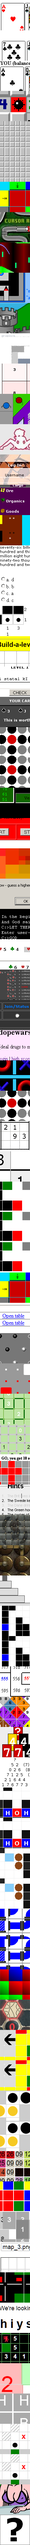
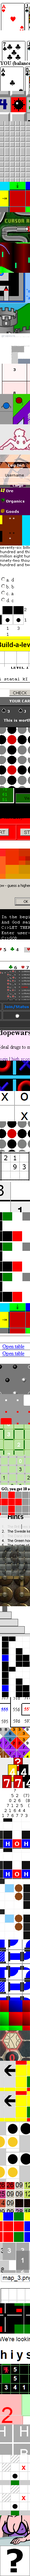
squarescape bugfix, finished tic tac toe 2

diff --git a/tictactoe.js b/tictactoe.js
@@ -1,4 +1,10 @@
 class TicTacToe extends GridGame {
+	constructor( grid ) {
+		super(grid);
+
+		this.m_arrWinLines = [];
+	}
+
 	createGame() {
 	}
 
@@ -24,7 +30,7 @@ class TicTacToe extends GridGame {
 		this.reset();
 
 		this.setTurn(Math.random() > 0.5);
-		this.m_objGrid.getElements('[data-chosen]').data('chosen', null);
+		this.m_objGrid.getElements('td').data('chosen', null).removeClass('winner');
 	}
 
 	choose( cell ) {
@@ -35,12 +41,57 @@ class TicTacToe extends GridGame {
 		this.winOrLose();
 	}
 
+	haveWon() {
+		const lines = this.getWinLines();
+		const winner = lines.find((coords) => {
+			const chosens = coords.map((coord) => {
+				return this.getCell(coord).data('chosen');
+			}).join('');
+			return chosens === '111' || chosens === '000';
+		});
+		if ( winner ) {
+			new Elements(winner.map((coord) => this.getCell(coord))).addClass('winner');
+			return true;
+		}
+	}
+
+	getWinLines() {
+		if ( this.m_arrWinLines.length ) {
+			return this.m_arrWinLines;
+		}
+
+		const dirs = [
+			new Coords2D(0, 1),
+			new Coords2D(1, 0),
+			new Coords2D(1, 1),
+			new Coords2D(-1, 1),
+		];
+		const starts = this.m_objGrid.getElements([
+			'#' + this.m_objGrid.idOrRnd() + ' > tr:first-child > td',
+			'#' + this.m_objGrid.idOrRnd() + ' > tr > td:first-child'
+		].join(', '));
+
+		const lines = [].concat.apply([], starts.map((start) => {
+			return dirs.map((dir) => {
+				var current = start;
+				const line = [current];
+				while ( current = this.getCell(this.getCoord(current).add(dir)) ) {
+					line.push(current);
+				}
+				return line;
+			}).filter((line) => line.length == 3);
+		}));
+		const coords = lines.map((cells) => cells.map((cell) => this.getCoord(cell)));
+		return coords;
+	}
+
 	listenControls() {
 		this.listenCellClick();
 	}
 
 	handleCellClick( cell ) {
-		console.log(cell);
+		if ( this.m_bGameOver ) return this.startGame();
+
 		if ( !cell.data('chosen') ) {
 			this.choose(cell);
 		}

diff --git a/squarescape.js b/squarescape.js
@@ -41,8 +41,10 @@ class Squarescape extends LeveledGridGame {
 
 	move( offset ) {
 		const path = this.findPath(this.getPlayer(), offset);
-		this.drawPath(path);
-		this.setMoves(this.m_iMoves + 1);
+		if ( path.length > 0 ) {
+			this.drawPath(path);
+			this.setMoves(this.m_iMoves + 1);
+		}
 	}
 
 	findPath( from, offset ) {

diff --git a/134b.php b/134b.php
@@ -17,12 +17,28 @@ table {
 	border-collapse: collapse;
 }
 td {
-	width: 30px;
-	height: 30px;
-	border: solid 1px #aaa;
+	width: 50px;
+	height: 50px;
+	border: solid 2px #aaa;
 	padding: 0;
-	line-height: 30px;
+	line-height: 50px;
 	text-align: center;
+	font-size: 40px;
+}
+tr:first-child > td {
+	border-top: 0;
+}
+tr > td:last-child {
+	border-right: 0;
+}
+tr:last-child > td {
+	border-bottom: 0;
+}
+tr > td:first-child {
+	border-left: 0;
+}
+td.winner {
+	background-color: lightgreen;
 }
 td[data-chosen="0"]:after,
 #turn[data-chosen="0"]:after {
